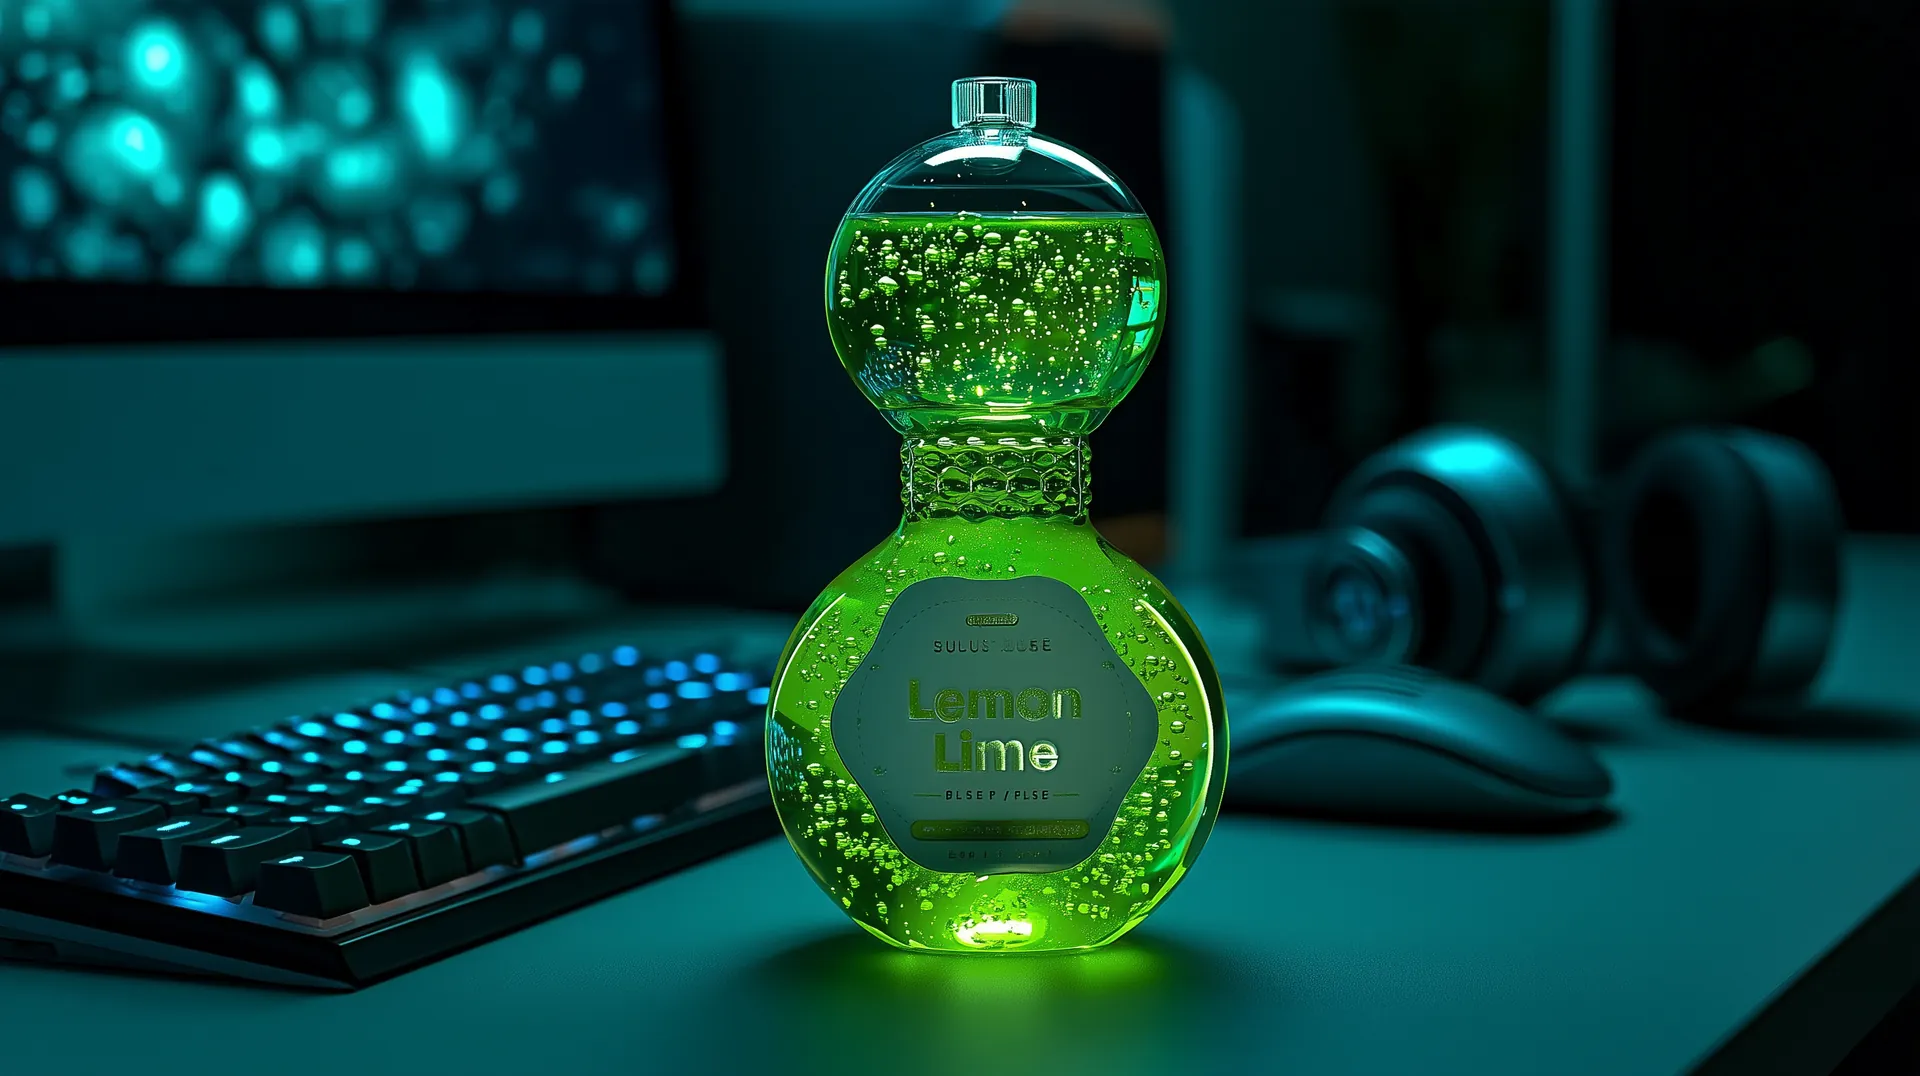
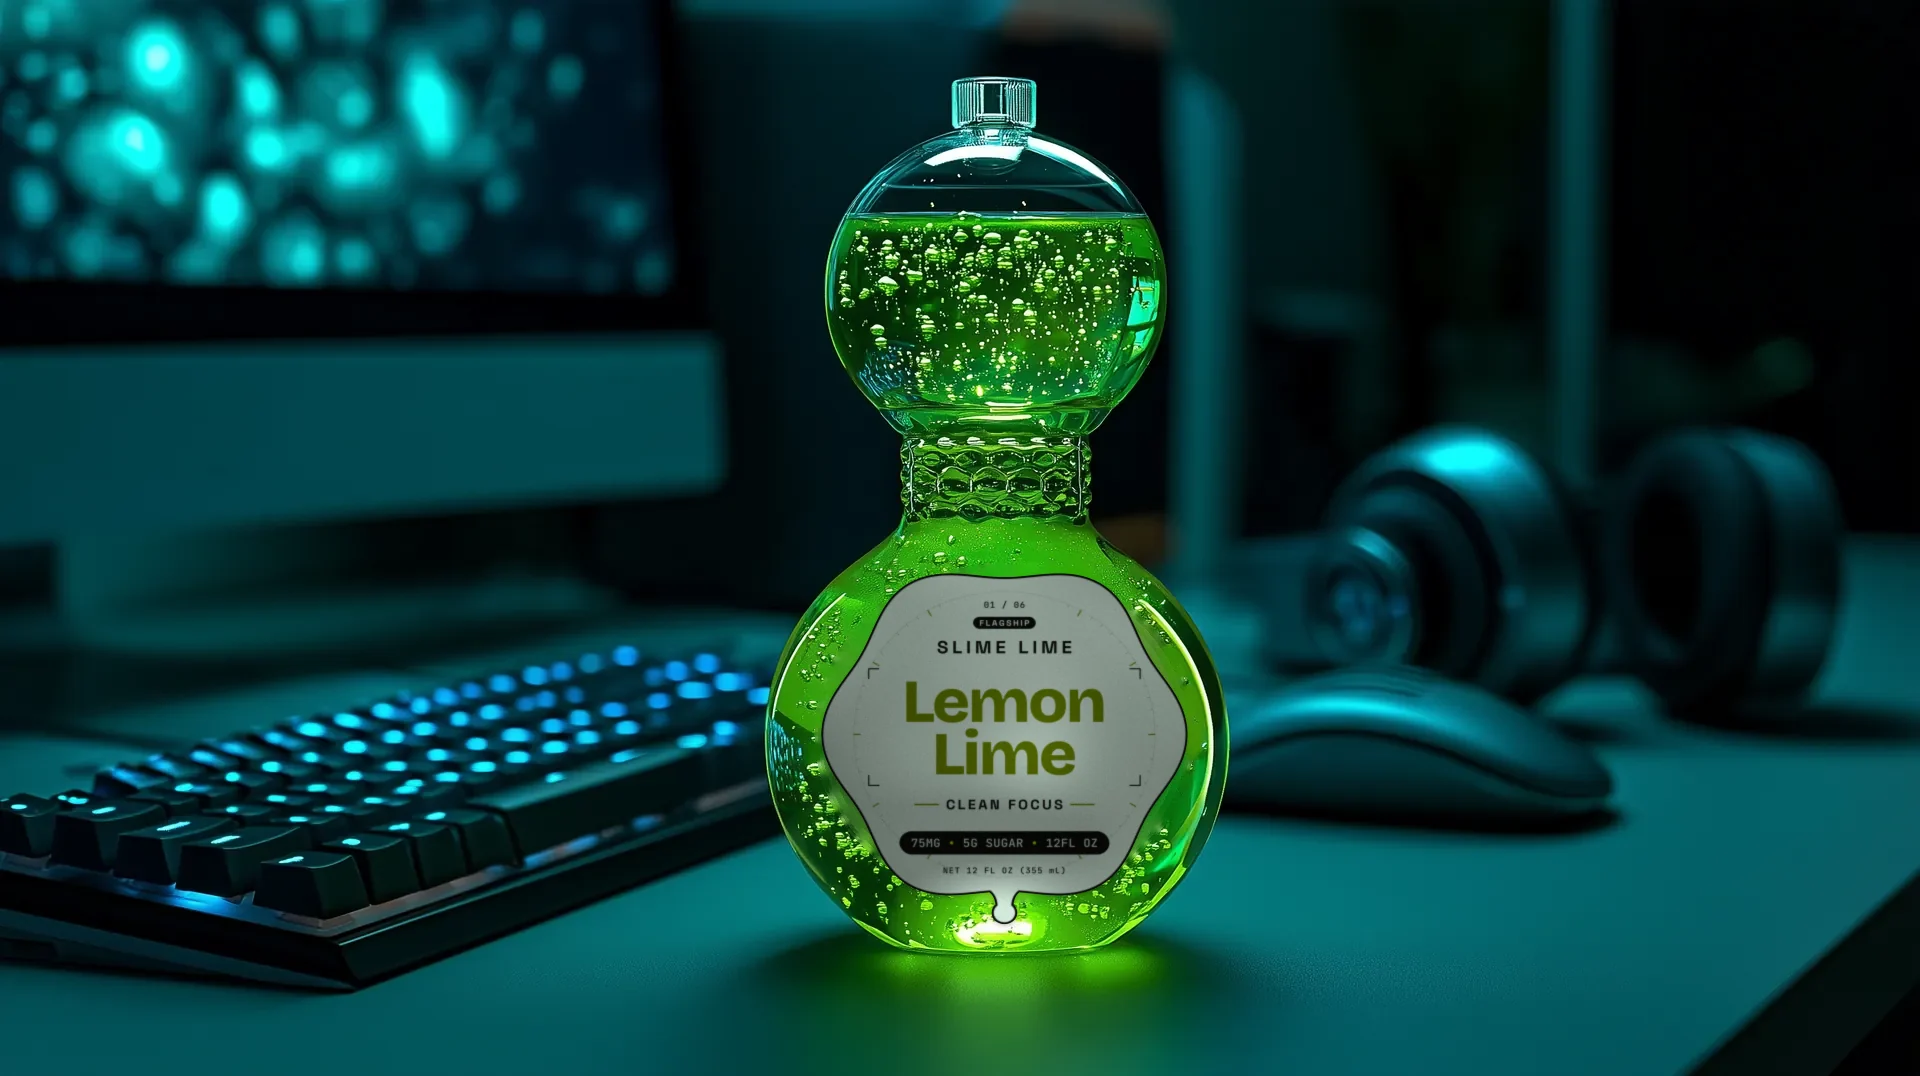
Revert to original fonts; replace garbled Midjourney labels with the Claude label art
- Typography: back to Bricolage Grotesque titles (drops Al Fresco kit, slime-display.js,
  slime-type.css and the glossy "Late nights" word) so the site matches the bottle labels.
- Photos: the six lineup splashes, the warehouse story shot and the desk lifestyle shot now
  carry the real front labels (label-front-*.webp), warped onto the bottle and relit from
  the original photo. 1200/640/960 variants regenerated.

Changed region(s): [[0.4062, 0.5214, 0.625, 0.8587]]

diff --git a/home.jsx b/home.jsx
@@ -169,49 +169,6 @@ function HeroSpecRail({ grid = false }) {
   );
 }
 
-// Typography kit: "Glossy Slime" display lettering (slime-display.js). React owns only the outer
-// span; the kit replaces its children with an sr-only copy + aria-hidden SVG, so we set the text
-// imperatively and re-render when the text or flavor palette changes. Without JS/the kit it stays
-// as plain text styled by .sl-display's CSS fallback.
-const HOME_SLIME_PALETTE = { 'lemon-lime': 'lime', cherry: 'cherry', 'blue-rasp': 'blue-rasp', mango: 'mango', grape: 'grape', watermelon: 'watermelon' };
-function HomeSlimeWord({ text, palette }) {
-  const ref = useRefH(null);
-  const shownRef = useRefH(false);
-  useEffectH(() => {
-    const el = ref.current; if (!el) return;
-    let live = true;
-    const first = !shownRef.current;
-    el.removeAttribute('data-text'); el.classList.remove('is-rendered'); el.textContent = text;
-    // First appearance: hold it back until the lettering is drawn, then fade in (no flat-text -> SVG pop).
-    // Palette changes on flavor switch stay instant, like the rest of the accent swap.
-    const reveal = animate => {
-      if (!live || shownRef.current) return;
-      shownRef.current = true;
-      el.style.opacity = '';
-      if (!animate || !el.animate) return;
-      const reduced = window.matchMedia && matchMedia('(prefers-reduced-motion: reduce)').matches;
-      el.animate(reduced
-        ? [{ opacity: 0 }, { opacity: 1 }]
-        : [{ opacity: 0, transform: 'scale(0.97)' }, { opacity: 1, transform: 'none' }],
-        { duration: reduced ? 150 : 240, easing: 'cubic-bezier(0.23, 1, 0.32, 1)' });
-    };
-    if (first) el.style.opacity = '0';
-    const bail = first ? setTimeout(() => reveal(false), 1500) : 0;   // font/kit slow: show the CSS fallback
-    const draw = () => {
-      if (!live || !window.SlimeDisplay) return;
-      window.SlimeDisplay.render(el);
-      if (first) { clearTimeout(bail); reveal(true); }
-    };
-    const fam = getComputedStyle(el).fontFamily;
-    (document.fonts ? document.fonts.load(`700 200px ${fam}`) : Promise.resolve()).catch(() => {}).then(() => {
-      if (window.SlimeDisplay) draw();
-      else window.addEventListener('load', draw, { once: true });
-    });
-    return () => { live = false; clearTimeout(bail); window.removeEventListener('load', draw); };
-  }, [text, palette]);
-  return <span ref={ref} className="sl-display" data-palette={palette} data-ground="dark" style={{ transformOrigin: 'left bottom' }}/>;
-}
-
 function Hero({ flavor, flavors, onPickFlavor, onShop, onWatch }) {
   const copyRef = useRefH(null);
   const reduced = heroUseMedia('(prefers-reduced-motion: reduce)');
@@ -246,8 +203,7 @@ function Hero({ flavor, flavors, onPickFlavor, onShop, onWatch }) {
     <div ref={copyRef} style={{ position: 'relative', maxWidth: 600, minWidth: 0 }}>
       <div className="eyebrow" style={{ marginBottom: 22 }}>Functional hydration · built for gamers</div>
       <h1 className="hero-title">
-        <HomeSlimeWord text="Late nights" palette={HOME_SLIME_PALETTE[flavor.id] || 'lime'}/>
-        deserve <span style={{ color: 'var(--accent)' }}>better fuel.</span>
+        Late nights deserve <span style={{ color: 'var(--accent)' }}>better fuel.</span>
       </h1>
       <p className="body-lg" style={{ maxWidth: 460, margin: '26px 0 34px', color: 'var(--fg-2)' }}>
         5g sugar. 75mg clean caffeine. Zero crash. Real electrolytes. Built for the long session.

diff --git a/Slime Lime.html b/Slime Lime.html
@@ -22,11 +22,7 @@
 <link rel="preconnect" href="https://fonts.googleapis.com"/>
 <link rel="preconnect" href="https://fonts.gstatic.com" crossorigin/>
 <link rel="stylesheet" href="https://fonts.googleapis.com/css2?family=Bricolage+Grotesque:opsz,wght@12..96,500;12..96,700;12..96,800&family=Space+Grotesk:wght@400;500;600;700&family=Inter:wght@400;500;600;700&family=JetBrains+Mono:wght@400;500;700&display=swap"/>
-<!-- Al Fresco (Adobe Fonts kit ooz0jtv) + Slime Lime typography kit -->
-<link rel="preconnect" href="https://use.typekit.net" crossorigin/>
-<link rel="stylesheet" href="https://use.typekit.net/ooz0jtv.css"/>
 <link rel="stylesheet" href="colors_and_type.css"/>
-<link rel="stylesheet" href="slime-type.css"/>
 <link rel="stylesheet" href="site.css"/>
 <script type="importmap">{"imports":{"three":"https://cdn.jsdelivr.net/npm/three@0.161.0/build/three.module.js","three/addons/":"https://cdn.jsdelivr.net/npm/three@0.161.0/examples/jsm/"}}</script>
 <link rel="modulepreload" href="https://cdn.jsdelivr.net/npm/three@0.161.0/build/three.module.js" crossorigin="anonymous"/>
@@ -39,7 +35,6 @@
 <script src="https://unpkg.com/react-dom@18.3.1/umd/react-dom.production.min.js" integrity="sha384-gTGxhz21lVGYNMcdJOyq01Edg0jhn/c22nsx0kyqP0TxaV5WVdsSH1fSDUf5YJj1" crossorigin="anonymous"></script>
 <script src="https://unpkg.com/@babel/standalone@7.29.0/babel.min.js" integrity="sha384-m08KidiNqLdpJqLq95G/LEi8Qvjl/xUYll3QILypMoQ65QorJ9Lvtp2RXYGBFj1y" crossorigin="anonymous"></script>
 
-<script src="slime-display.js" defer></script>
 <script type="module" src="bottle3d.js"></script>
 <script type="text/babel" src="shell.jsx"></script>
 <script type="text/babel" src="home.jsx"></script>

diff --git a/site.css b/site.css
@@ -265,19 +265,18 @@ button[aria-controls]:not(.btn):not(.iconbtn):not([role="tab"]):not(:disabled):a
 }
 
 /* ───────── Type ───────── */
-/* Page + section titles: Al Fresco Bold (typography kit). Script joins need neutral tracking. */
 .display-xl {
-  font: 700 clamp(46px, 8.6vw, 124px)/1 var(--font-script);
-  letter-spacing: 0;
-  font-feature-settings: "calt", "liga";
+  font: 800 clamp(44px, 9vw, 128px)/0.92 var(--font-display);
+  letter-spacing: -0.045em;
   margin: 0;
+  font-optical-sizing: auto;
   text-wrap: balance;
 }
 .display-lg {
-  font: 700 clamp(44px, 5.6vw, 84px)/1.02 var(--font-script);
-  letter-spacing: 0;
-  font-feature-settings: "calt", "liga";
+  font: 800 clamp(36px, 6vw, 88px)/0.96 var(--font-display);
+  letter-spacing: -0.04em;
   margin: 0;
+  font-optical-sizing: auto;
   text-wrap: balance;
 }
 .h1 {
@@ -426,14 +425,12 @@ html { scroll-behavior: smooth; }
 
 /* ───────── Home hero (3D stage) ───────── */
 .hero-title {
-  font: 700 clamp(44px, 5.4vw, 88px)/1 var(--font-script);
-  letter-spacing: 0;
-  font-feature-settings: "calt", "liga";
+  font: 800 clamp(46px, 6.2vw, 100px)/0.9 var(--font-display);
+  letter-spacing: -0.05em;
   margin: 0;
+  font-optical-sizing: auto;
   text-wrap: balance;
 }
-/* Glossy display word ("Late nights") — slime-display.js renders it as layered SVG */
-.hero-title .sl-display { font-size: 1.32em; display: block; max-width: 100%; margin-bottom: 0.04em; }
 .hero-arrow {
   width: 40px; height: 40px;
   display: inline-grid; place-items: center;

diff --git a/colors_and_type.css b/colors_and_type.css
@@ -152,8 +152,6 @@
      Mono: JetBrains Mono — nutrition stats, code, tickers
   */
   --font-display: "Bricolage Grotesque", "Space Grotesk", system-ui, sans-serif;
-  /* Al Fresco Bold (Adobe Fonts) — page + section titles and the glossy display lettering */
-  --font-script: "al-fresco", "Bricolage Grotesque", cursive;
   --font-ui:      "Space Grotesk", "Inter", system-ui, sans-serif;
   --font-body:    "Inter", system-ui, -apple-system, "Segoe UI", sans-serif;
   --font-mono:    "JetBrains Mono", ui-monospace, "SF Mono", Menlo, monospace;
